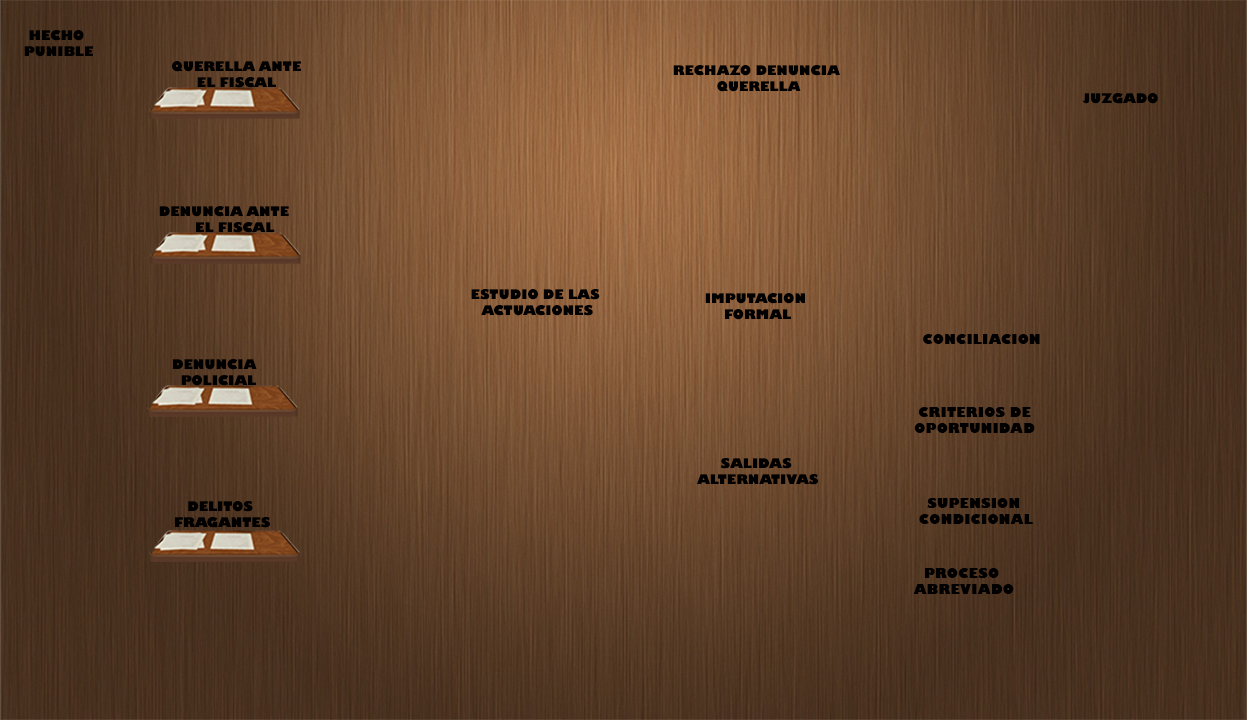
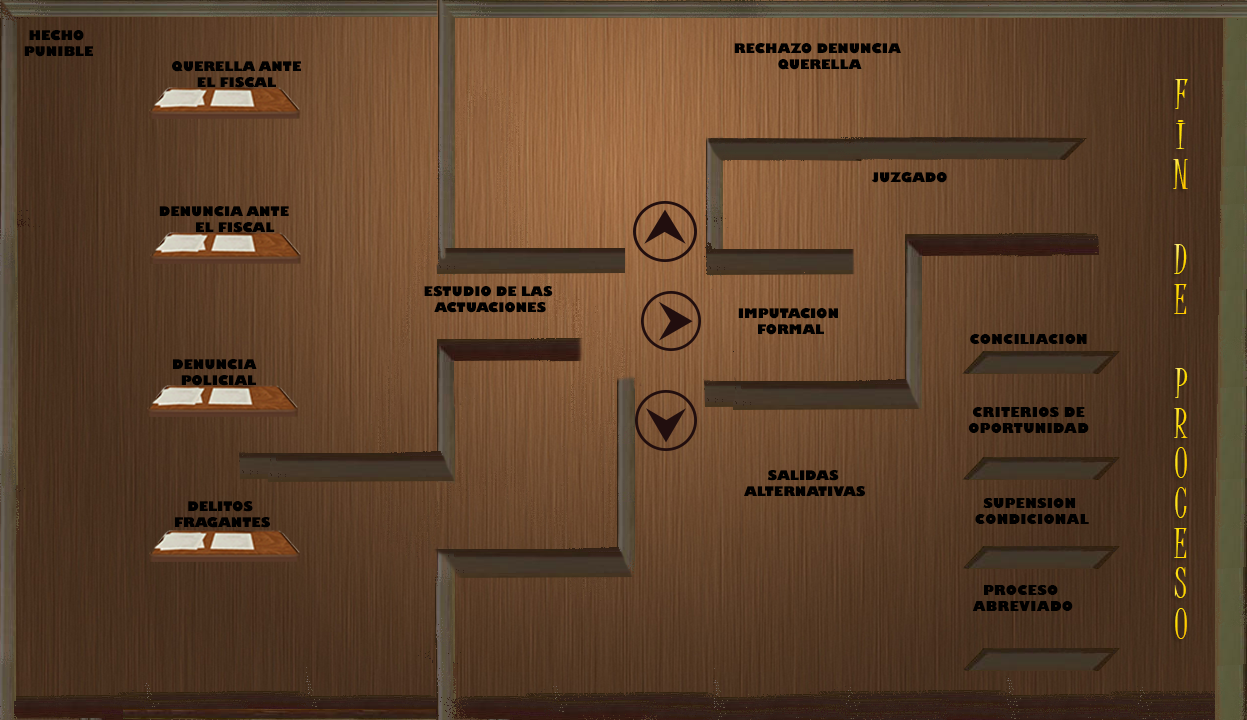
agregad6 3a 50agen descr5-c56n

diff --git a/src/taller/Cliente.java b/src/taller/Cliente.java
@@ -140,7 +140,7 @@ public class Cliente extends Thread implements Runnable{
                int aux=0;
                System.out.println(i);
 		switch (i){
-            case 1: {	imagen.setLocation(60,100);
+            case 1: {	imagen.setLocation(110,80);
             			monitor.incrementarTotal();
                                 monitor.incrementarQfiscal();
             			dormir((int)tiempoContactoLlamada);  /////////////////TIEMPO DE UNA LLAMADA
@@ -149,7 +149,7 @@ public class Cliente extends Thread implements Runnable{
                                 moverS(320);
         	}
             break;
-            case 2: {	imagen.setLocation(60,250);
+            case 2: {	imagen.setLocation(110,230);
             			monitor.incrementarTotal();
                                 monitor.incrementarDfiscal();
             			dormir((int)tiempoContactoLlamada);
@@ -160,7 +160,7 @@ public class Cliente extends Thread implements Runnable{
                               
     		}
             break;
-            case 3: {	imagen.setLocation(60,400);
+            case 3: {	imagen.setLocation(110,380);
             			monitor.incrementarTotal();
                                 monitor.incrementarDpolicial();
             			dormir((int)tiempoContactoLlamada);
@@ -171,7 +171,7 @@ public class Cliente extends Thread implements Runnable{
                                   //aux=1;
 			}
             break;
-            case 4: {	imagen.setLocation(60,550);
+            case 4: {	imagen.setLocation(110,530);
             			monitor.incrementarTotal();
                                 monitor.incrementarFlagrante();
             			dormir((int)tiempoContactoLlamada);
@@ -217,7 +217,7 @@ public class Cliente extends Thread implements Runnable{
                 imagen.setIcon(new ImageIcon(getClass().getResource("/images/caminaS.gif")));
             	//moverS(292);
                 imagen.setIcon(new ImageIcon(getClass().getResource("/images/caminaD.gif")));
-            	moverD(450);
+            	moverD(350);
                 //dormir(125);
                 monitor.incrementarLlamadas();
                 //dormir(125);

diff --git a/src/taller/Panel123.java b/src/taller/Panel123.java
@@ -216,8 +216,8 @@ public class Panel123 extends JPanel {
     
     ////////////////////////////////////////////////////////////////////////////////////////////////////////////////
     public void llamadas(){
-    	int x=75;
-    	int y=75;
+    	int x=120;
+    	int y=50;
     	for(int i=0;i<llamadas;i++){	
     		JLabel llamadas1=new JLabel(new ImageIcon(getClass().getResource("/images/oficina.gif")));
                 //ImageIcon imagenNota = new ImageIcon(getClass().getResource("/images/oficina.png"));
@@ -227,17 +227,17 @@ public class Panel123 extends JPanel {
     		//x=x;  
     		operadoresllamadas.add(llamadas1);
     		if(i==1){
-    			y=225;
+    			y=200;
     			//x=45;
     		}else if(i==2){
-                y=375;}
-                else y=525;
+                y=350;}
+                else y=500;
     	}	
 	}
     
     public void siniestros(){
-    	int x=500;
-	    int y=330;
+    	int x=450;
+	    int y=300;
 	    for(int i=0;i<siniestros;i++){	
 	    	//JLabel siniestros1=new JLabel(new ImageIcon("/images/agente0.png"));
                 JLabel siniestros1=new JLabel(new ImageIcon(getClass().getResource("/images/agente0.png")));
@@ -256,7 +256,7 @@ public class Panel123 extends JPanel {
     
     public void gastos(){
     	int x=768;
-	      int y=75;
+	      int y=65;
 	    for(int i=1;i<=gastos;i++){	
 	    	JLabel estimaciones=new JLabel(new ImageIcon(getClass().getResource("/images/estimacion.gif")));
 	    	estimaciones.setLayout(null);
@@ -270,10 +270,10 @@ public class Panel123 extends JPanel {
 	    		// x=830;
 	    	 //}
                  if(i==1){
-    			y=225;
+    			y=320;
     			//x=45;
     		}else if(i==2){
-                y=375;}
+                y=475;}
                 else y=525;
 	    }	
     }

diff --git a/src/taller/informacion1.java b/src/taller/informacion1.java
@@ -26,7 +26,7 @@ public class informacion1 extends javax.swing.JPanel {
     }
     public void paintComponent(Graphics g){
      Dimension tamanio= getSize();
-     ImageIcon imagenFondo = new ImageIcon(getClass().getResource("/images/informacion1.jpg"));
+     ImageIcon imagenFondo = new ImageIcon(getClass().getResource("/images/descripcion.jpg"));
         g.drawImage(imagenFondo.getImage(),0,0,tamanio.width,tamanio.height,null);
         
      setOpaque(false);
